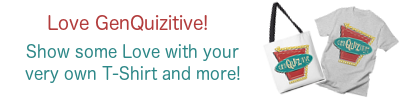
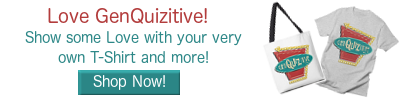
Fix bug, minor improvements

Changed region(s): [[0.06, 0.06, 0.6, 0.63], [0.06, 0.66, 0.6, 0.96]]

diff --git a/website/live/genquizitive-live.js b/website/live/genquizitive-live.js
@@ -450,6 +450,11 @@ angular.module('genquizitive-live', ['ngRoute','ngCookies','ngAnimate','ui.boots
 							} else {
 								$scope.genQuizRound.error = null;
 								$scope.genQuizRound.ready = true;
+								$scope.genQuizRound.creator = $scope.screenName;
+								$scope.genQuizRound.questionCount = $scope.questions;
+								$scope.genQuizRound.currentQuestionNum = 0;
+								$scope.genQuizRound.showLiving = $scope.showLiving;
+								$scope.genQuizRound.difficulty = $scope.difficulty;
 								backendService.writeGenQuiz($scope.genQuizRound);
 								backendService.currentGenQuiz = $scope.genQuizRound;
 								$scope.step = step;
@@ -600,6 +605,7 @@ angular.module('genquizitive-live', ['ngRoute','ngCookies','ngAnimate','ui.boots
 						else {
 							//-- wait for game start signal
 							backendService.watchForQuestion($scope.genQuizRound.id);
+							backendService.watchPlayers();
 						}
 					});
 				}
@@ -646,6 +652,7 @@ angular.module('genquizitive-live', ['ngRoute','ngCookies','ngAnimate','ui.boots
 
 	$scope.$on('$destroy', function() {
 		backendService.unWatchQuestion();
+		backendService.unWatchPlayers();
 	});
 
 	$scope.$on('questionAdded', function(event, question) {
@@ -667,6 +674,22 @@ angular.module('genquizitive-live', ['ngRoute','ngCookies','ngAnimate','ui.boots
 		};
 		notif.show();
 	});
+
+	$scope.$on('playersChanged', function(event, players) {
+		$scope.players = players;
+		$scope.player = $cookies.getObject("player");
+		if (!$scope.player || !$scope.player.id) {
+			$scope.player = {name: $scope.genQuizRound.creator, score: 0};
+			backendService.addPlayer($scope.player);
+			$cookies.putObject('player', $scope.player);
+		} else {
+			if (!$scope.players[$scope.player.id]) {
+				backendService.addPlayer($scope.player);
+				$cookies.putObject('player', $scope.player);
+			}
+		}
+		backendService.currentPlayer = $scope.player;
+	});
 })
 .controller('liveGenQuiz', function($scope, $location, $q, $interval, $timeout, notificationService, backendService, 
 			languageService, QuestionService, $log) {
@@ -683,7 +706,7 @@ angular.module('genquizitive-live', ['ngRoute','ngCookies','ngAnimate','ui.boots
 	$scope.minute = 0;
 	$scope.second = 0;	
 	$scope.loadingTime = 0;
-	$scope.maxTime = 200 * 60 * 1000;
+	$scope.maxTime = 2 * 60 * 1000;
 	$scope.missedQuestions = 0;
 	$scope.startTime = new Date();
 	$scope.blinkerStarted = false;
@@ -849,7 +872,7 @@ angular.module('genquizitive-live', ['ngRoute','ngCookies','ngAnimate','ui.boots
 	$scope.minute = 0;
 	$scope.second = 0;	
 	$scope.loadingTime = 0;
-	$scope.maxTime = 200 * 60 * 1000;
+	$scope.maxTime = 2 * 60 * 1000;
 	$scope.missedQuestions = 0;
 	$scope.startTime = new Date();
 	$scope.blinkerStarted = false;
@@ -1061,6 +1084,7 @@ angular.module('genquizitive-live', ['ngRoute','ngCookies','ngAnimate','ui.boots
 	}
 
 	//-- watch for player scores
+	backendService.watchPlayerScores($scope.genQuizRound.currentQuestionId, $scope.genQuizRound.id);
 	backendService.watchPlayers();
 	//-- wait for game start signal
 	backendService.watchForQuestion($scope.genQuizRound.id);
@@ -1072,6 +1096,20 @@ angular.module('genquizitive-live', ['ngRoute','ngCookies','ngAnimate','ui.boots
 			$location.path('/');
 		});
 	};
+
+	$scope.scoredPlayers = {};
+	$scope.$on('playerScores', function(event, playerScores) {
+		var updated = false;
+		angular.forEach(playerScores, function(score, playerId){
+			if (!$scope.players[playerId]) {
+				$scope.players[playerId] = {name: "unknown", id: playerId, score: 0};
+			}
+			if (!$scope.scoredPlayers[playerId]) {
+				updated = true;
+				$scope.scoredPlayers[playerId] = true;
+			}
+		});
+	});
 
 	$scope.$on('playersChanged', function(event, players) {
 		$scope.players = players;
@@ -1108,6 +1146,7 @@ angular.module('genquizitive-live', ['ngRoute','ngCookies','ngAnimate','ui.boots
 
 	$scope.$on('$destroy', function() {
 		backendService.unWatchPlayers();
+		backendService.unWatchPlayerScores();
 		backendService.unWatchQuestion();
 	});
 })

diff --git a/website/questions.js b/website/questions.js
@@ -457,15 +457,18 @@ angular.module('genquiz.questions', ['genquiz.familytree', 'ui.bootstrap'])
 				var count = 0;
 				
 				var person = question.person;
-				while(count < 10 && (!question.person.facts || question.person.facts.length<1+question.difficulty)) {
+				var factCount = question.countFacts(question.person.facts);
+				while(count < 10 && (!question.person.facts || factCount<1+question.difficulty)) {
 					person = familysearchService.getRandomPerson(useLiving, this.difficulty);
-					if (person.facts && (!question.person.facts || person.facts.length > question.person.facts.length)) {
+					var newFactCount = question.countFacts(question.person.facts);
+					if (person.facts && (!question.person.facts || newFactCount > factCount)) {
 						question.person = person;
+						factCount = newFactCount;
 					}
 					count++;
 				}
 				if (count==10) {
-					console.log('unabled to find person with enough facts');
+					console.log('unable to find person with enough facts');
 					deferred.reject(question);
 				} else {
 					familysearchService.markUsed(question.person);
@@ -475,6 +478,23 @@ angular.module('genquiz.questions', ['genquiz.familytree', 'ui.bootstrap'])
 				}
 				
 				return deferred.promise;
+			},
+			countFacts: function(facts) {
+				var count = 0;
+				if (facts && facts.length >0) {
+					var badFacts = ["LifeSketch","Other","REFN","Residence"];
+					for(var f=0; f<facts.length; f++) {
+						var found = false;
+						for(var b=0; b<badFacts.length; b++) {
+							if (facts[f].type.indexOf(badFacts[b]) >= 0) {
+								found = true;
+								break;
+							}
+						}
+						if (!found) count++;
+					}
+				}
+				return count;
 			},
 			checkAnswer: function(answer) {
 				if (answer.id == this.person.id) {
@@ -563,11 +583,15 @@ angular.module('genquiz.questions', ['genquiz.familytree', 'ui.bootstrap'])
 										var entry = response.entries[0];
 										if (entry.content && entry.content.gedcomx && entry.content.gedcomx.places && entry.content.gedcomx.places.length>0) {
 											var placeAuthority = entry.content.gedcomx.places[0];
-											if (!uniquePlaces[placeAuthority.id] && placeAuthority.latitude) {
-												uniquePlaces[placeAuthority.id] = placeAuthority;
-												placeAuthority.fact = uniqueFacts[responsePlace];
-												placeAuthority.pos = [placeAuthority.latitude, placeAuthority.longitude];
-												question.places.push(placeAuthority);
+											if (placeAuthority.latitude) {
+												var latlongid = Math.floor(placeAuthority.latitude) + ' ' + Math.floor(placeAuthority.longitude);
+												if (!uniquePlaces[placeAuthority.id] && !uniquePlaces[latlongid]) {
+													uniquePlaces[placeAuthority.id] = placeAuthority;
+													uniquePlaces[latlongid] = placeAuthority;
+													placeAuthority.fact = uniqueFacts[responsePlace];
+													placeAuthority.pos = [placeAuthority.latitude, placeAuthority.longitude];
+													question.places.push(placeAuthority);
+												}
 											}
 										}
 									}
@@ -1504,7 +1528,7 @@ angular.module('genquiz.questions', ['genquiz.familytree', 'ui.bootstrap'])
 
 	$scope.timelineClass = "timeline-fact";
 	
-	$scope.badFacts = ["LifeSketch","Other","REFN","Residence"]
+	$scope.badFacts = ["LifeSketch","Other","REFN","Residence"];
 	
 	$scope.$watch('question.person', function() {
 		if ($scope.question.person && $scope.question.person.facts) {

diff --git a/website/live/live-join-game.html b/website/live/live-join-game.html
@@ -23,13 +23,18 @@
             </form>
         </div>
         <div ng-if="genQuizRound" class="tree text-center">
-            <div style="line-height: 70px; margin-bottom: 20px;">
+            <div style="line-height: 50px; margin-bottom: 20px;">
                 <div style="display: inline-block; margin: 10px;">
                     <strong>Successfully joined GenQuiz game for <br/>{{genQuizRound.person.display.name}}.</strong>
                     <div style="display: inline-block;" avatar-badge class="avatar ancestor-avatar avatar-small" src="genQuizRound.person.portrait" label="genQuizRound.person.display.name"></div>
                 </div>
             </div>
-            <h4>Waiting for next question...</h4>
+            <h4>Waiting for {{genQuizRound.creator}} to start the round...</h4>
+            <div>
+				<ul class="players">
+					<li ng-repeat="player in players">{{player.name}}</li>
+				</ul>
+			</div>
         </div>
         <div>
             <div class="clickable neonbutton" ng-click="leaveGame()">

diff --git a/website/affiliates/lft-large.html b/website/affiliates/lft-large.html
@@ -1,7 +1,8 @@
 <div class="text-center" style="background-image: url('http://www.littlefamilytree.com/wood_back.png'); background-size: cover; padding: 15px;">
-    <img src="http://www.littlefamilytree.com/ic_launcher-web.png" style="width: 280px;" />
-    <img src="http://www.littlefamilytree.com/little_family_tree.png" style="width: 280px;" />
+    <img src="http://www.littlefamilytree.com/ic_launcher-web.png" style="width: 260px;" />
+    <img src="http://www.littlefamilytree.com/little_family_tree.png" style="width: 260px;" />
     <p style="font-size: x-large; max-width: 360px; color: white; margin-left: auto; margin-right: auto;">
         Introduce your children to their family history with Little Family Tree - An app just for them!
     </p>
+    <button class="btn btn-default">Learn More!</button>
 </div>

diff --git a/website/affiliates/amerch.html b/website/affiliates/amerch.html
@@ -1,6 +1,7 @@
 <div class="text-center">
     <img src="https://images-na.ssl-images-amazon.com/images/I/81Oc0t-VHiL._UX679_.jpg" style="width: 280px;" />
-    <p style="font-size: x-large; max-width: 360px; margin-left: auto; margin-right: auto;">
-        Celebrate your unique heritage with a World Heritage T-Shirt!
+    <p style="font-size: x-large; max-width: 360px; margin-left: auto; margin-right: auto; color: white;">
+        Celebrate your unique heritage with a World Heritage T-Shirt! ONLY $14.99!
     </p>
+    <button class="btn btn-default">Shop Now!</button>
 </div>

diff --git a/website/affiliates/lft-banner.html b/website/affiliates/lft-banner.html
@@ -1,5 +1,6 @@
 <div style="background-image: url('http://www.littlefamilytree.com/banner150.png'); background-size: cover; 
-    min-height: 100px; color: black; font-size: 16px; cursor: pointer; text-align: center; padding: 10px 170px 5px 5px;">
+    height: 100px; color: black; font-size: 14px; cursor: pointer; text-align: center; padding: 10px 170px 5px 5px;">
+    <button class="btn btn-default" style="float: left; margin-top: 30px; margin-right: 10px;">Learn More!</button>
     Little Family Tree<br />
     A Family History app for children.<br />
 </div>

diff --git a/website/live/live-question-wait.html b/website/live/live-question-wait.html
@@ -13,7 +13,10 @@
             <table class="player-table">
                 <tr ng-repeat="player in playerArray | orderBy: '-score'">
                     <td>{{player.name}}</td>
-                    <td>{{player.score | number:0}}</td>
+                    <td>
+                        <span ng-show="scoredPlayers[player.id]">{{player.score | number:0}}</span>
+                        <img ng-show="!scoredPlayers[player.id]" src="/images/clock.png" />
+                    </td>
                 </tr>
             </table>
         </div>

diff --git a/website/live/live-wait.html b/website/live/live-wait.html
@@ -14,7 +14,10 @@
             <table class="player-table">
                 <tr ng-repeat="player in playerArray | orderBy: '-score'">
                     <td>{{player.name}}</td>
-                    <td>{{player.score | number:0}}</td>
+                    <td>
+                        <span ng-show="scoredPlayers[player.id]">{{player.score | number:0}}</span>
+                        <img ng-show="!scoredPlayers[player.id]" src="/images/clock.png" />
+                    </td>
                 </tr>
             </table>
         </div>

diff --git a/website/familytree.js b/website/familytree.js
@@ -762,7 +762,7 @@ angular.module('genquiz.familytree', [])
 			
 			temp.getPersonSpouses(personId).then(function(spouses) {
 			if (spouses) {
-				if (Object.keys(temp.people).length < 36) {
+				if (Object.keys(temp.people).length < generations * 4) {
 					angular.forEach(spouses, function(spouse) {
 						temp.backgroundQueue.push(function(){ temp.getAncestorTree(spouse.id, generations, true); });
 					});

diff --git a/website/questions/multi1/question.html b/website/questions/multi1/question.html
@@ -13,7 +13,7 @@
 			left:0px; width: 400px;
 		}
 		.mquestion-block {
-			position: absolute; top: 178px; left: 50px; width: 480px; height:130px; font-size: 160%; transform: rotate(-2deg);
+			position: absolute; top: 178px; left: 50px; width: 470px; height:130px; font-size: 160%; transform: rotate(-2deg);
 		}
 		.portrait .mquestion-block {
 			top: 130px;

diff --git a/website/genquizitive.css b/website/genquizitive.css
@@ -1303,7 +1303,7 @@ div.buttonspacer {
 	color: white;
 	font-size: xx-large;
 	left: 20%;
-	top: 47%;
+	top: 340px;
 	border: solid #113388 2px;
 	border-radius: 5px;
 	text-align: center;
